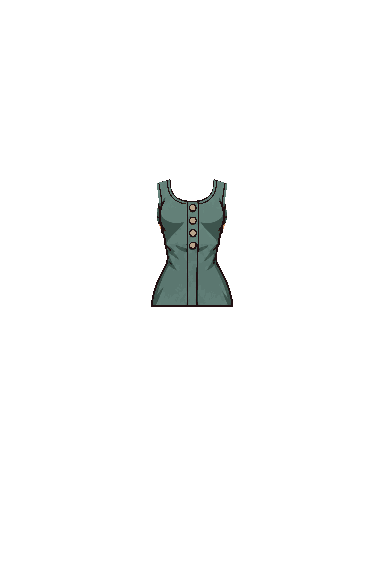
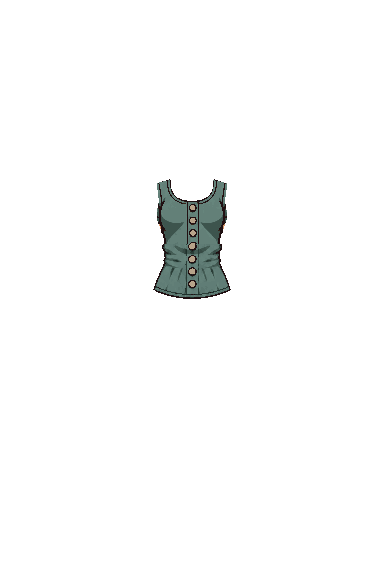
4番のブラウスのすそを、外に出してもかわいいペプラムの形に（v0.10.188）

Changed region(s): [[0.375, 0.4062, 0.625, 0.5312]]

diff --git a/app/sw.js b/app/sw.js
@@ -1,6 +1,6 @@
 // オフライン対応：アプリ本体と絵を端末に保存して、電波がなくても開けるようにする
 // 版を上げるときは VERSION を変える（古い保存は消える）
-const VERSION = 'tabiquest-v0.10.187';
+const VERSION = 'tabiquest-v0.10.188';
 const CORE = [
   './', 'index.html', 'manifest.json', 'css/app.css', 'vendor/three.r128.min.js',
   'js/main.js', 'js/card.js', 'js/places.js', 'js/photo_places.js', 'js/plain_places.js', 'js/store.js', 'js/geo.js', 'js/conditions.js', 'js/ui.js', 'js/arrival.js', 'js/zukan.js', 'js/debug.js', 'js/mihon.js',

diff --git a/app/js/main.js b/app/js/main.js
@@ -50,7 +50,7 @@ import * as scramble from './scenes/scramble.js';
 import * as kamakura from './scenes/kamakura.js';
 import * as photo from './scenes/photo.js';
 
-export const VERSION = '0.10.187';
+export const VERSION = '0.10.188';
 engine.register('minatomirai', minatomirai.build);
 engine.register('chukagai', chukagai.build);
 engine.register('tokyotower', tokyotower.build);
